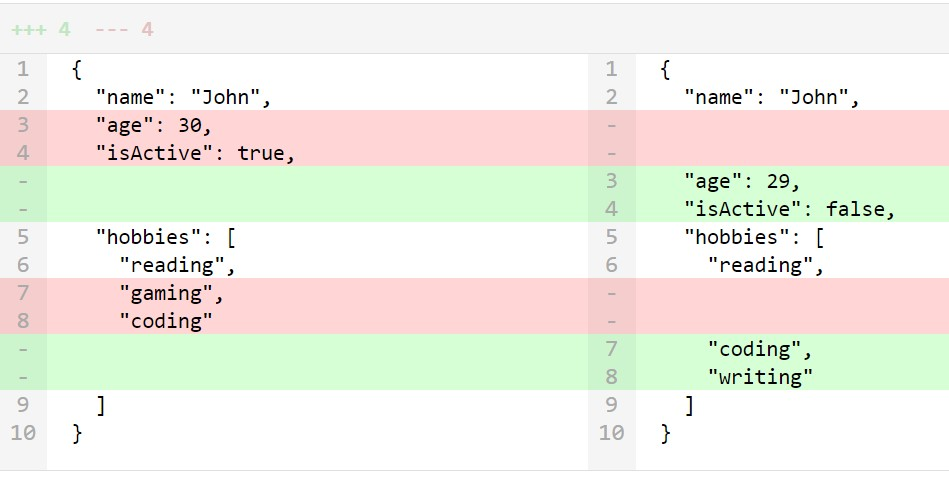
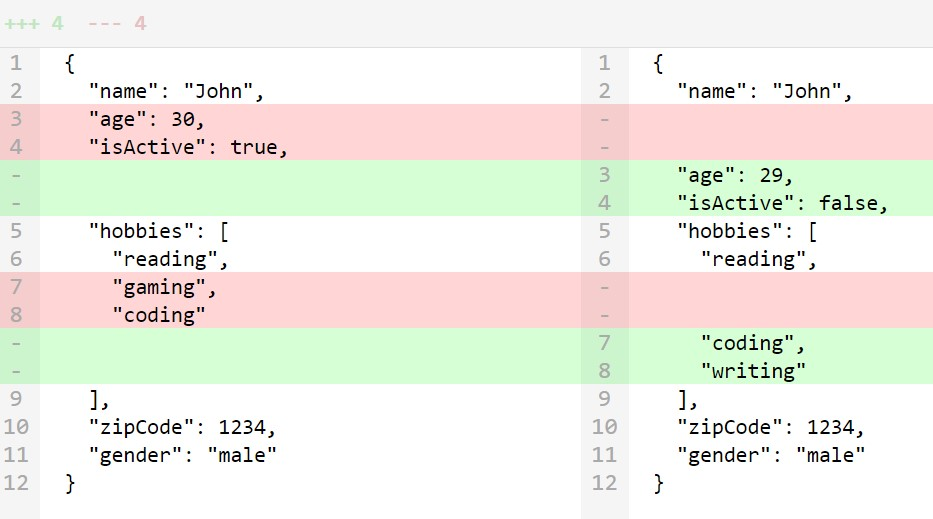
add ngx-diff-demo

diff --git a/ngx-diff-demo/src/app/app.component.ts b/ngx-diff-demo/src/app/app.component.ts
@@ -16,13 +16,17 @@ export class AppComponent {
     name: 'John',
     age: 30,
     isActive: true,
-    hobbies: ['reading', 'gaming', 'coding']
+    hobbies: ['reading', 'gaming', 'coding'],
+    zipCode: 1234,
+    gender: 'male'
   };
   myObject2 = {
     name: 'John',
     age: 29,
     isActive: false,
-    hobbies: ['reading', 'coding', 'writing']
+    hobbies: ['reading', 'coding', 'writing'],
+    zipCode: 1234,
+    gender: 'male'
   };  
   oldDocumentContents =  JSON.stringify(this.myObject1, null, 2);
   newDocumentContents =  JSON.stringify(this.myObject2, null, 2);
